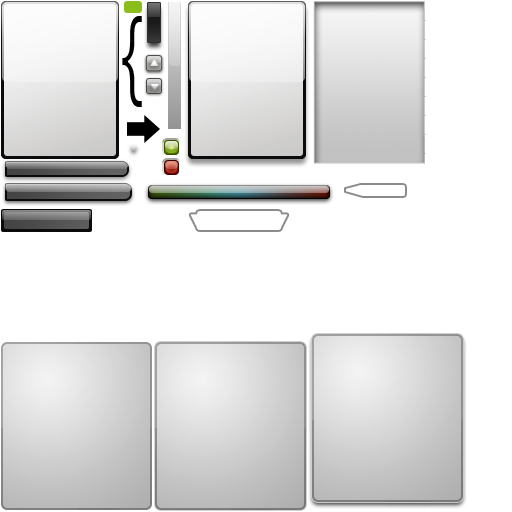
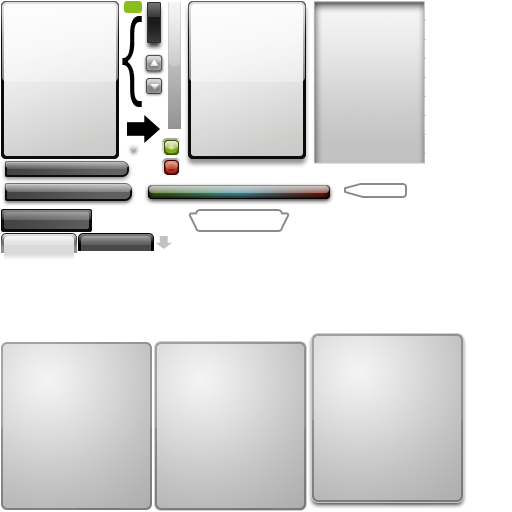
TabContainer implementation

Changed region(s): [[0.0, 0.4375, 0.3438, 0.5]]

diff --git a/guitest/begui/src/TabContainer.cpp b/guitest/begui/src/TabContainer.cpp
@@ -20,6 +20,8 @@
 */
 
 #include "TabContainer.h"
+#include "Font.h"
+#include "util.h"
 
 using namespace begui;
 
@@ -27,7 +29,11 @@ TabContainer::TabContainer() :
 	m_curTab(0),
 	m_bCanCreateTabs(false),
 	m_bCanCloseTabs(false),
-	m_bCanDragTabs(false)
+	m_bCanDragTabs(false),
+	m_activeTabTextColor(0,0,0),
+	m_inactiveTabTextColor(1,1,1),
+	m_tabTextPadding(5),
+	m_minTabWidth(60)
 {
 }
 
@@ -53,6 +59,31 @@ void TabContainer::create(int left, int top, int width, int height, const std::s
 	m_bCanCloseTabs = bCanCloseTabs;
 
 	// load the associated style
+	ResourceManager::Style style = ResourceManager::inst()->getClassDef("TabContainer").style(style_name);
+	ASSERT(style.hasProp("tab_active"));
+	m_tabActiveImg = ResourceManager::inst()->loadImage(style.get_img("tab_active"));
+	ASSERT(style.hasProp("tab_inactive"));
+	m_tabInactiveImg = ResourceManager::inst()->loadImage(style.get_img("tab_inactive"));
+	ASSERT(style.hasProp("client_area_bg"));
+	m_clientAreaImg = ResourceManager::inst()->loadImage(style.get_img("client_area_bg"));
+	if (style.hasProp("resizable_area"))
+		m_resizableArea = style.get_rect("resizable_area");
+	if (style.hasProp("active_area"))
+		m_activeArea = style.get_rect("active_area");
+	if (style.hasProp("tab_resizable_area"))
+		m_tabResizableArea = style.get_rect("tab_resizable_area");
+	if (style.hasProp("tab_active_area"))
+		m_tabActiveArea = style.get_rect("tab_active_area");
+	if (style.hasProp("active_tab_text"))
+		m_activeTabTextColor = style.get_c("active_tab_text");
+	if (style.hasProp("inactive_tab_text"))
+		m_inactiveTabTextColor = style.get_c("inactive_tab_text");
+	if (style.hasProp("tab_text_padding"))
+		m_tabTextPadding = style.get_i("tab_text_padding");
+	if (style.hasProp("tab_min_width"))
+		m_minTabWidth = style.get_i("tab_min_width");
+	if (style.hasProp("active_bottom_img"))
+		m_activeBtmImg = ResourceManager::inst()->loadImage(style.get_img("active_bottom_img"));
 }
 
 void TabContainer::addTab(const std::string &title)
@@ -60,6 +91,7 @@ void TabContainer::addTab(const std::string &title)
 	Tab *pTab = new Tab;
 	pTab->m_title = title;
 	pTab->m_icon = 0;
+	pTab->setParent(this);
 	m_tabs.push_back(pTab);
 }
 
@@ -139,46 +171,126 @@ void TabContainer::frameUpdate()
 
 void TabContainer::frameRender()
 {
-	// Render the tab headers
-	//TODO
+	glEnable(GL_BLEND);
 
+	Font *pFont = FontManager::getCurFont();
+	int header_h = m_tabActiveArea.getHeight();
+
+	// Render the tab bg
+	glColor4f(1,1,1,1);
+	Component::drawImageWtBorders(m_clientAreaImg, getLeft()-m_activeArea.left, 
+		header_h + getTop()-m_activeArea.top, 
+		getWidth()+(m_clientAreaImg.m_width - m_activeArea.right)+m_activeArea.left, 
+		getHeight()+(m_clientAreaImg.m_height - m_activeArea.bottom)+m_activeArea.top, m_resizableArea);
+
+	// Render the tab headers
+	int tab_x = getLeft()-m_tabActiveArea.left + m_resizableArea.left;
+	for (size_t i=0; i<m_tabs.size(); ++i)
+	{
+		int tab_w = m_minTabWidth;
+		int text_w = pFont->stringLength(m_tabs[i]->m_title) + 2*m_tabTextPadding;
+		if (text_w > tab_w)
+			tab_w = text_w;
+
+		// save tab coords (local coords)
+		m_tabs[i]->m_headerLeft = tab_x - getLeft();
+		m_tabs[i]->m_headerRight = tab_x+tab_w - getTop();
+
+		if (i == m_curTab) {
+			glColor4f(1,1,1,1);
+			Component::drawImageWtBorders(m_tabActiveImg, tab_x, 
+				getTop()-m_tabActiveArea.top, 
+				tab_w, 
+				m_tabActiveImg.m_height,
+				m_tabResizableArea);
+
+			// render the text
+			glColor4f(m_activeTabTextColor.r, m_activeTabTextColor.g, m_activeTabTextColor.b,1);
+			Font::renderString(tab_x + m_tabTextPadding, getTop()+header_h-4, m_tabs[i]->m_title);
+
+			// render a small indicator that the tab is open
+			if (m_activeBtmImg.m_texture) {
+				glColor4f(1,1,1,1);
+				Component::drawImage(m_activeBtmImg, tab_x + tab_w/2 - m_activeBtmImg.m_width/2, getTop()+header_h);
+			}
+		}
+		else {
+			glColor4f(1,1,1,1);
+			Component::drawImageWtBorders(m_tabInactiveImg, tab_x, 
+				getTop()-m_tabActiveArea.top, 
+				tab_w, 
+				m_tabInactiveImg.m_height,
+				m_tabResizableArea);
+			
+			// render the text
+			glColor4f(m_inactiveTabTextColor.r, m_inactiveTabTextColor.g, m_inactiveTabTextColor.b,1);
+			Font::renderString(tab_x + m_tabTextPadding, getTop()+header_h-4, m_tabs[i]->m_title);
+		}
+
+		tab_x += tab_w+1;
+	}
+	
+	// let the container call onRender()
 	Container::frameRender();
 }
 
 void TabContainer::onRender()
 {
 	// render the contents of the active tab
-	if (m_curTab >= 0 && m_curTab < (int)m_tabs.size())
+	if (m_curTab >= 0 && m_curTab < (int)m_tabs.size()) {
+		// mask the client area
+		Vector2i wpos = m_tabs[m_curTab]->localToWorld(Vector2i(0,0));
+		display::pushMask(wpos.x, wpos.y, getWidth(), getHeight());
+
+		m_tabs[m_curTab]->setPos(getLeft(), getTop()+m_tabActiveArea.getHeight());
 		m_tabs[m_curTab]->frameRender();
+		
+		// unmask the client area
+		display::popMask();
+	}
 }
 
 bool TabContainer::onMouseDown(int x, int y, int button)
 {
+	Vector2i lP = parentToLocal(Vector2i(x,y));
+
 	// check for events on the tab headers
-	// TODO
+	if (lP.y<m_tabActiveArea.getHeight()) {
+		for (size_t i=0; i<m_tabs.size(); ++i) {
+			if (lP.x>=m_tabs[i]->m_headerLeft && lP.x<=m_tabs[i]->m_headerRight) {
+				m_curTab = i;
+				return true;
+			}
+		}
+	}
 
 	if (m_curTab >= 0 && m_curTab < (int)m_tabs.size())
-		return m_tabs[m_curTab]->onMouseDown(x,y,button);
+		return m_tabs[m_curTab]->onMouseDown(lP.x,lP.y,button);
 	return Container::onMouseDown(x,y,button);
 }
 
 bool TabContainer::onMouseMove(int x, int y, int prevx, int prevy)
 {
+	Vector2i lP = parentToLocal(Vector2i(x,y));
+	Vector2i lpP = parentToLocal(Vector2i(prevx,prevy));
+
 	// check for events on the tab headers
 	// TODO
 
 	if (m_curTab >= 0 && m_curTab < (int)m_tabs.size())
-		return m_tabs[m_curTab]->onMouseMove(x,y,prevx,prevy);
+		return m_tabs[m_curTab]->onMouseMove(lP.x,lP.y,lpP.x,lpP.y);
 	return Container::onMouseMove(x,y,prevx,prevy);
 }
 
 bool TabContainer::onMouseUp(int x, int y, int button)
 {
+	Vector2i lP = parentToLocal(Vector2i(x,y));
+
 	// check for events on the tab headers
 	// TODO
 
 	if (m_curTab >= 0 && m_curTab < (int)m_tabs.size())
-		return m_tabs[m_curTab]->onMouseUp(x,y,button);
+		return m_tabs[m_curTab]->onMouseUp(lP.x,lP.y,button);
 	return Container::onMouseUp(x,y,button);
 }
 

diff --git a/guitest/begui/src/guitest/Application.cpp b/guitest/begui/src/guitest/Application.cpp
@@ -5,33 +5,39 @@ Application *Application::m_pInst = NULL;
 
 void ChildWnd1::onCreate()
 {
+	// create the tabs
+	m_tabs.create(8, 8, 400, 360);
+	m_tabs.addTab("tab 1");
+	m_tabs.addTab("tab 2");
+	addComponent(&m_tabs);
+
 	// create a simple push button
 	m_button1.create(260, 40, "Button", 1);
 	//m_button1.create(260, 40, 80, 60, "Button", 1);
 	m_button1.setIcon(ResourceManager::inst()->loadImage("gears.png"), Button::NEAR_LEFT, 32,32);
 	//m_button1.setFace(Button::UP, ResourceManager::inst()->loadImage("gears.png"));
-	addComponent(&m_button1);
+	m_tabs.addComponent(&m_button1, 0);
 
 	// create a group of radio buttons
 	m_radio1.create(20, 20, "Radio Button 1", 2);
 	m_radio2.create(20, 40, "Radio Button 2", 3);
-	m_group.create(40, 30, 200, 80, "Radio group");
+	m_group.create(20, 20, 200, 80, "Radio group");
 	m_group.addComponent(&m_radio1);
 	m_group.addComponent(&m_radio2);
-	addComponent(&m_group);
+	m_tabs.addComponent(&m_group, 0);
 
 	// create a slider (also an example of using a live
 	// variable)
-	m_slider.create(40, 130, 300, 4);
+	m_slider.create(20, 120, 300, 4);
 	m_slider.bindValue(&m_sliderPos);
 	m_slider.setBounds(0, 10, 2, 20);
-	addComponent(&m_slider);
+	m_tabs.addComponent(&m_slider, 0);
 
 	// create a textbox
-	m_textbox.create(250, 170, 130, 180, true, true);
-	addComponent(&m_textbox);
+	m_textbox.create(230, 160, 130, 180, true, true);
+	m_tabs.addComponent(&m_textbox, 0);
 	
-	m_listbox.create(40, 150, 200, 200, ListBox::MULTI_SELECT_SINGLECLICK);
+	m_listbox.create(20, 140, 200, 200, ListBox::MULTI_SELECT_SINGLECLICK);
 	m_listbox.addItem("item 1");
 	m_listbox.addItem("disabled item 2");
 	m_listbox.addItem("item 3");
@@ -41,19 +47,19 @@ void ChildWnd1::onCreate()
 		m_listbox.addItem("item");
 	m_listbox.addItem("last item");
 	m_listbox.disableItem(1);
-	addComponent(&m_listbox);
+	m_tabs.addComponent(&m_listbox, 0);
 
-	m_combobox.create(250, 150, 80, 200);
+	m_combobox.create(230, 140, 80, 200);
 	m_combobox.addItem("item 1");
 	m_combobox.addItem("item 2");
 	m_combobox.addItem("item 3");
 	m_combobox.addItem("item 4");
 	m_combobox.disableItem(2);
-	addComponent(&m_combobox);
+	m_tabs.addComponent(&m_combobox, 0);
 
 	// change the size of the window, so that the client area is large
 	// enough to hold the contents
-	setClientAreaSize(420, 380);
+	setClientAreaSize(416, 410);
 }
 
 bool Application::onCreate()

diff --git a/guitest/begui/src/TabContainer.h b/guitest/begui/src/TabContainer.h
@@ -89,8 +89,9 @@ protected:
 	public:
 		std::string m_title;
 		ResourceManager::ImageRef *m_icon;
+		int m_headerLeft, m_headerRight;
 
-		Tab() : m_icon(0) { }
+		Tab() : m_icon(0), m_headerLeft(0), m_headerRight(0) { }
 	};
 
 	std::vector<Tab*>	m_tabs;
@@ -106,6 +107,13 @@ protected:
 	Functor1<int> m_onTabClose;
 	Functor1<int> m_onTabDragStart;
 	Functor1<int> m_onTabDragEnd;
+
+	// appearance
+	ResourceManager::ImageRef m_tabActiveImg, m_tabInactiveImg, m_clientAreaImg, m_activeBtmImg;
+	Rect<int>			m_resizableArea, m_activeArea;
+	Rect<int>			m_tabResizableArea, m_tabActiveArea;
+	Color				m_activeTabTextColor, m_inactiveTabTextColor;
+	int					m_tabTextPadding, m_minTabWidth;
 
 private:
 	// hide the original addComponent method

diff --git a/guitest/begui/src/guitest/Application.h b/guitest/begui/src/guitest/Application.h
@@ -13,6 +13,7 @@ private:
 	TextBox m_textbox;
 	ListBox m_listbox;
 	ComboBox m_combobox;
+	TabContainer m_tabs;
 
 	// example: a live variable
 	double m_sliderPos;

diff --git a/guitest/begui/include/bgui.h b/guitest/begui/include/bgui.h
@@ -47,5 +47,6 @@
 #include "../src/ImageBox.h"
 #include "../src/ListBox.h"
 #include "../src/ComboBox.h"
+#include "../src/TabContainer.h"
 
 #endif
